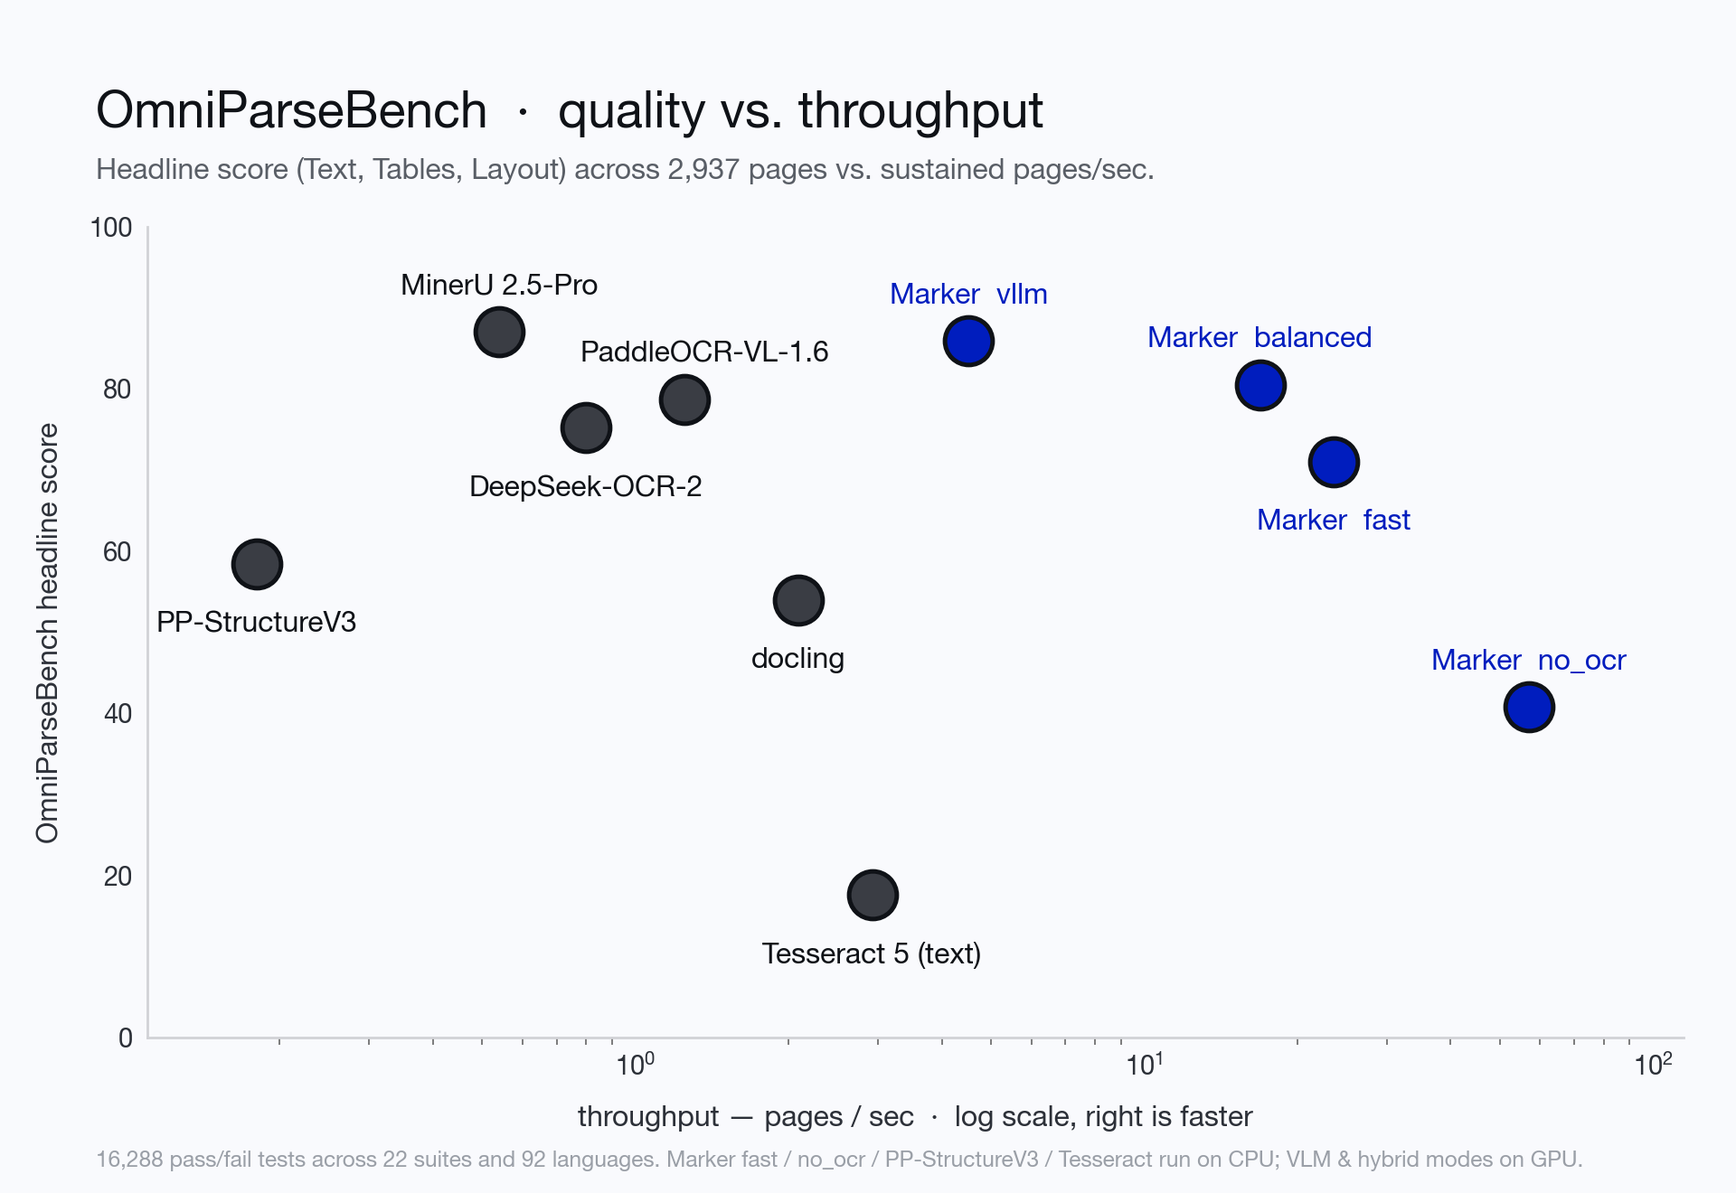
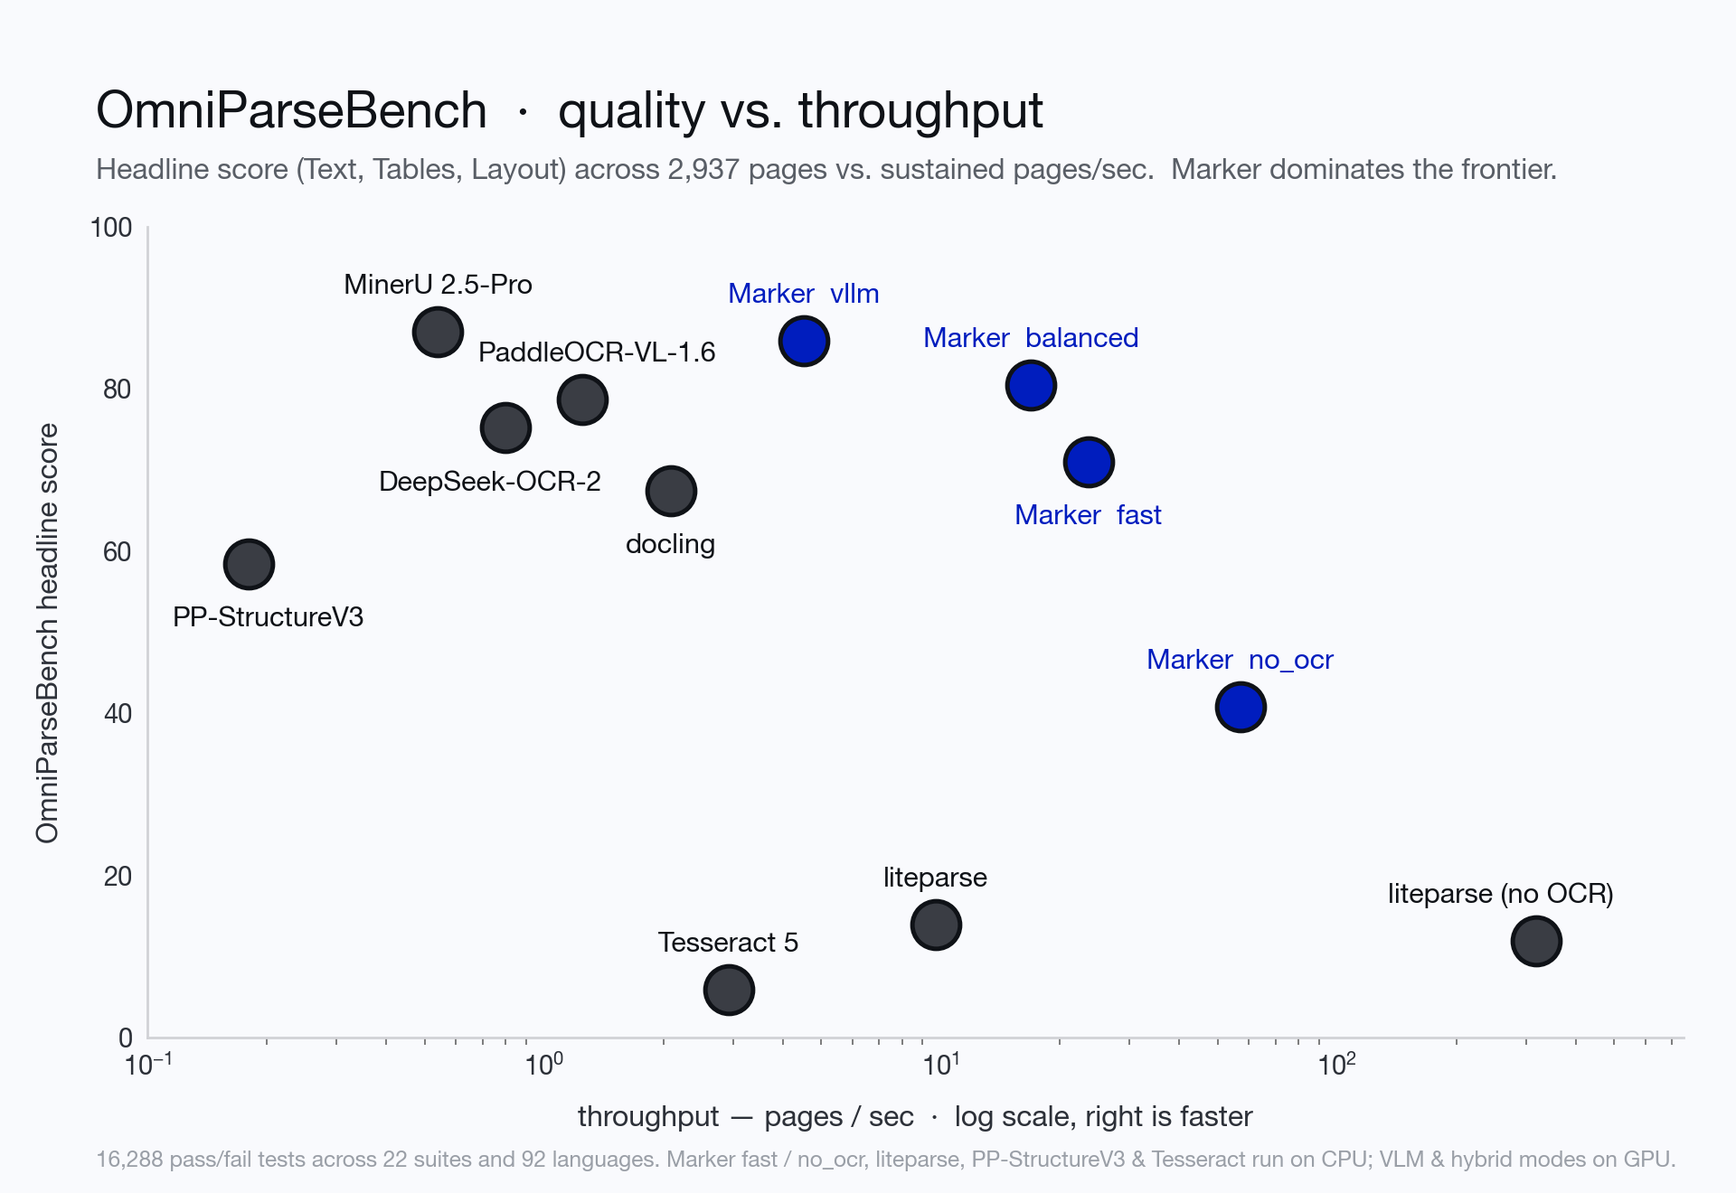
Add docling and liteparse OmniParseBench scores, charts, and positioning

diff --git a/benchmarks/plot_benchmarks.py b/benchmarks/plot_benchmarks.py
@@ -83,14 +83,16 @@ def plot_omniparsebench_scatter():
     # (label, throughput_pg_s, headline_score, is_marker, dx_pts, dy_pts, ha)
     points = [
         ("MinerU 2.5-Pro", 0.54, 87.1, False, 0, 18, "center"),
-        ("DeepSeek-OCR-2", 0.80, 75.2, False, 0, -24, "center"),
-        ("PaddleOCR-VL-1.6", 1.25, 78.7, False, 8, 18, "center"),
-        ("PP-StructureV3", 0.18, 58.4, False, 0, -24, "center"),
-        ("docling", 2.09, 54.0, False, 0, -24, "center"),
-        ("Tesseract 5 (text)", 2.92, 17.6, False, 0, -24, "center"),
+        ("DeepSeek-OCR-2", 0.80, 75.2, False, -6, -22, "center"),
+        ("PaddleOCR-VL-1.6", 1.25, 78.7, False, 6, 18, "center"),
+        ("PP-StructureV3", 0.18, 58.4, False, 8, -22, "center"),
+        ("docling", 2.09, 67.5, False, 0, -22, "center"),
+        ("liteparse", 9.74, 14.0, False, 0, 18, "center"),
+        ("liteparse (no OCR)", 318.0, 12.0, False, -14, 18, "center"),
+        ("Tesseract 5", 2.92, 5.9, False, 0, 18, "center"),
         ("Marker  vllm", 4.52, 85.9, True, 0, 18, "center"),
         ("Marker  balanced", 16.9, 80.5, True, 0, 18, "center"),
-        ("Marker  fast", 23.6, 71.0, True, 0, -24, "center"),
+        ("Marker  fast", 23.6, 71.0, True, 0, -22, "center"),
         ("Marker  no_ocr", 57.0, 40.8, True, 0, 18, "center"),
     ]
 
@@ -113,14 +115,14 @@ def plot_omniparsebench_scatter():
             textcoords="offset points",
             ha=ha,
             va="center",
-            fontsize=11.5,
+            fontsize=11.0,
             fontweight="medium" if is_marker else "normal",
             color=text_color,
             zorder=5,
         )
 
     ax.set_xscale("log")
-    ax.set_xlim(0.11, 115)
+    ax.set_xlim(0.10, 750)
     ax.set_ylim(0, 100)
     ax.set_yticks([0, 20, 40, 60, 80, 100])
     ax.tick_params(axis="both", which="major", labelsize=10.5, length=0, pad=6)
@@ -135,8 +137,8 @@ def plot_omniparsebench_scatter():
     _add_header_footer(
         fig,
         "OmniParseBench  ·  quality vs. throughput",
-        "Headline score (Text, Tables, Layout) across 2,937 pages vs. sustained pages/sec.",
-        "16,288 pass/fail tests across 22 suites and 92 languages. Marker fast / no_ocr / PP-StructureV3 / Tesseract run on CPU; VLM & hybrid modes on GPU.",
+        "Headline score (Text, Tables, Layout) across 2,937 pages vs. sustained pages/sec.  Marker dominates the frontier.",
+        "16,288 pass/fail tests across 22 suites and 92 languages. Marker fast / no_ocr, liteparse, PP-StructureV3 & Tesseract run on CPU; VLM & hybrid modes on GPU.",
     )
     fig.savefig(OUT_DIR / "omniparsebench.png", dpi=200)
     plt.close(fig)
@@ -156,13 +158,14 @@ def plot_omniparsebench_scores_bar():
         ("Marker\nvllm", 85.9, True),
         ("GLM-OCR", 81.5, False),
         ("Marker\nbalanced", 80.5, True),
-        ("Nemotron\n3.5", 80.0, False),
         ("Paddle\nVL 1.6", 78.7, False),
         ("DeepSeek\nOCR 2", 75.2, False),
         ("Marker\nfast", 71.0, True),
+        ("docling", 67.5, False),
         ("Hunyuan\nOCR 1.5", 64.6, False),
         ("PP-Struct\nV3", 58.4, False),
         ("Marker\nno_ocr", 40.8, True),
+        ("liteparse", 14.0, False),
     ]
 
     xs = np.arange(len(items))
@@ -231,6 +234,7 @@ def plot_omniparsebench_families():
         ("Paddle\nVL 1.6", 61.7, 83.7, 90.7, False),
         ("DeepSeek\nOCR 2", 64.2, 70.0, 91.4, False),
         ("Marker\nfast", 62.3, 59.6, 91.2, True),
+        ("docling", 44.4, 72.0, 85.9, False),
         ("PP-Struct\nV3", 55.6, 47.8, 71.7, False),
     ]
 
@@ -312,11 +316,12 @@ def plot_throughput_bar():
         ("Marker\nno_ocr", 57.0, True),
         ("Marker\nfast", 23.6, True),
         ("Marker\nbalanced", 16.9, True),
-        ("liteparse", 8.9, False),
+        ("liteparse", 9.7, False),
         ("Marker\nvllm", 4.52, True),
         ("Tesseract 5", 2.92, False),
         ("docling", 2.09, False),
-        ("MinerU", 0.54, False),
+        ("Paddle\nVL 1.6", 1.25, False),
+        ("MinerU\n2.5-Pro", 0.54, False),
         ("PP-Struct\nV3", 0.18, False),
     ]
 
@@ -521,7 +526,7 @@ def plot_olmocr_charts():
     fig.savefig(OUT_DIR / "olmocr_bench.png", dpi=200)
     plt.close(fig)
 
-    # 2. olmocr_digital.png (CPU-only comparison)
+    # 2. olmocr_digital.png (CPU-only comparison on OmniParseBench)
     fig = plt.figure(figsize=(9.6, 6.6), dpi=200)
     ax = fig.add_axes([0.085, 0.13, 0.885, 0.68])
     _style_axes(ax)
@@ -529,10 +534,12 @@ def plot_olmocr_charts():
     cpu_points = [
         ("Marker  fast", 23.6, 71.0, True, -10, 18, "center"),
         ("Indra OCR", 49.4, 69.5, False, 15, 18, "center"),
-        ("Marker  no_ocr", 57.0, 55.8, True, 0, -24, "center"),
+        ("docling (CPU)", 1.38, 67.5, False, 0, 18, "center"),
+        ("Marker  no_ocr", 57.0, 40.8, True, 0, 18, "center"),
         ("PP-StructureV3", 0.18, 58.4, False, 10, -24, "center"),
-        ("liteparse", 8.9, 27.3, False, 0, -24, "center"),
-        ("Tesseract 5", 2.92, 17.6, False, 0, -24, "center"),
+        ("liteparse", 9.74, 14.0, False, 0, 18, "center"),
+        ("liteparse (no OCR)", 318.0, 12.0, False, -16, 18, "center"),
+        ("Tesseract 5", 2.92, 5.9, False, 0, 18, "center"),
     ]
 
     for label, x, y, is_marker, dx, dy, ha in cpu_points:
@@ -561,7 +568,7 @@ def plot_olmocr_charts():
         )
 
     ax.set_xscale("log")
-    ax.set_xlim(0.09, 150)
+    ax.set_xlim(0.09, 750)
     ax.set_ylim(0, 100)
     ax.set_yticks([0, 20, 40, 60, 80, 100])
     ax.tick_params(axis="both", which="major", labelsize=10.5, length=0, pad=6)
@@ -571,13 +578,13 @@ def plot_olmocr_charts():
         fontsize=11.5,
         labelpad=10,
     )
-    ax.set_ylabel("Benchmark score", fontsize=11.5, labelpad=10)
+    ax.set_ylabel("OmniParseBench headline score", fontsize=11.5, labelpad=10)
 
     _add_header_footer(
         fig,
         "CPU-only document parsing  ·  quality vs. throughput",
-        "Score vs. sustained pages/sec on CPU with no GPU required.",
-        "Marker fast and Indra OCR use in-process ONNX layout, reading order, and OCR on CPU; Marker no_ocr uses the PDF text layer + Indra ONNX layout.",
+        "OmniParseBench headline score vs. sustained pages/sec on CPU with no GPU required.",
+        "Marker fast & Indra OCR run in-process ONNX layout, reading order, and OCR on CPU; liteparse & Tesseract extract text without layout or table structure.",
     )
     fig.savefig(OUT_DIR / "olmocr_digital.png", dpi=200)
     plt.close(fig)

diff --git a/README.md b/README.md
@@ -44,13 +44,28 @@ Get started with **about 5,000 free convert pages every month** (work email) —
 
 <img src="data/images/omniparsebench.png" width="800px"/>
 
-We measure Marker on [OmniParseBench](https://huggingface.co/datasets/datalab-to/omni_parse_bench) ([GitHub](https://github.com/datalab-to/omni_parse_bench)), a comprehensive document-parsing benchmark of **16,288 pass/fail unit tests across 2,937 pages** in 92 languages covering text & reading order (`8,499` tests), table cell structure (`5,386` tests), and block layout (`2,403` tests), as well as [olmOCR-bench](https://github.com/allenai/olmocr/tree/main/olmocr/bench).
+Marker is built around a simple premise: **you shouldn't have to choose between VLM-level accuracy and production throughput, or maintain separate tools for GPU and CPU.**
 
-Marker's four conversion modes span the entire quality–throughput frontier:
-- **`vllm`** (full-page Surya 2.5 VLM, GPU) scores **85.9** headline on OmniParseBench (**83.7** on olmOCR-bench) at **4.5 pg/s** — ahead of open VLMs 2–5× its size (GLM-OCR, LightOnOCR-3-4B, PaddleOCR-VL-1.6, DeepSeek-OCR-2) and within 1.2 points of MinerU 2.5-Pro at ~8× higher throughput.
-- **`balanced`** (hybrid `pdftext` + Indra ONNX layout + Surya 2.5 VLM on tables/math/CJK/scans, GPU) scores **80.5** headline (**85.6** on the olmOCR-bench suites) at **16.9 pg/s**.
-- **`fast`** (in-process Indra ONNX layout, reading order, and ONNX OCR on CPU, no VLM server) scores **71.0** headline at **23.6 pg/s** — beating HunyuanOCR-1.5 (1B VLM) and outscoring PaddleOCR PP-StructureV3 (`58.4`) by +12.6 points at >100× the speed on CPU.
-- **`no_ocr`** (PDF text layer + in-process Indra ONNX layout on CPU) runs at **57.0 pg/s** with zero OCR calls.
+On [OmniParseBench](https://huggingface.co/datasets/datalab-to/omni_parse_bench) ([GitHub](https://github.com/datalab-to/omni_parse_bench)) — **16,288 pass/fail unit tests across 2,937 pages** in 92 languages covering text & reading order (`8,499` tests), table cell structure (`5,386` tests), and block layout (`2,403` tests) — as well as [olmOCR-bench](https://github.com/allenai/olmocr/tree/main/olmocr/bench), Marker defines the Pareto frontier across every hardware tier:
+
+- **Faster and more accurate than open document pipelines (`MinerU`, `docling`, `PP-StructureV3`)**:
+  - **`Marker balanced`** (**80.5** OmniParseBench, **85.6** on the olmOCR-bench suites, **16.9 pg/s**) beats **`docling`** (`67.5` at `2.1 pg/s`) by **+13.0 points overall** (**+34.8 points on text & math**) at **8× the speed**, and runs **31× faster** than **`MinerU 2.5-Pro`** (`0.54 pg/s`).
+  - **`Marker vllm`** (**85.9** OmniParseBench, **83.7** olmOCR-bench, **4.5 pg/s**) delivers higher text accuracy (`83.8` vs `77.4`) and higher layout accuracy (`95.7` vs `91.7`) than **`MinerU 2.5-Pro`** at **8.3× the throughput** (`4.5` vs `0.54 pg/s`).
+- **Outperforms open VLMs 2–12× its size (`GLM-OCR`, `LightOnOCR-3-4B`, `PaddleOCR-VL-1.6`, `DeepSeek-OCR-2`, `olmOCR-2`)**:
+  - Full-page VLMs burn GPU compute on every single page — even clean born-digital PDFs. Marker's hybrid **`balanced`** mode keeps clean prose on CPU (`pdftext` + in-process [Indra ONNX](https://github.com/datalab-to/indra-ocr) layout) and only calls the GPU VLM on equations, complex tables, CJK/non-Latin scripts, and scans — outscoring **`PaddleOCR-VL-1.6`** (`78.7`) and **`DeepSeek-OCR-2`** (`75.2`, 3.4B) at **14–21× higher throughput**.
+  - When you want full VLM OCR on every page, **`Marker vllm`** (powered by the compact 0.69B [Surya 2.5](https://github.com/datalab-to/surya) VLM) scores **85.9**, beating 1B–8B open VLMs (`LightOnOCR-3-4B` `82.9`, `GLM-OCR` `81.5`, `PaddleOCR-VL-1.6` `78.7`, `DeepSeek-OCR-2` `75.2`, `HunyuanOCR-1.5` `64.6`, `olmOCR-2` `42.6`).
+- **Best-in-class CPU-only parsing (`fast` & `no_ocr`) — no GPU or server required**:
+  - **`Marker fast`** runs 100% in-process on CPU/MPS (~18 MB Indra ONNX weights) and scores **71.0** at **23.6 pg/s** — beating **`docling`** (`67.5`) at **11–17× the speed**, beating 1B GPU VLMs like **`HunyuanOCR-1.5`** (`64.6`), outscoring **`PaddleOCR PP-StructureV3`** (`58.4`) by **+12.6 points at >130× the speed**, and delivering **5× higher accuracy at 2.4× the speed** of **`liteparse`** (`14.0` at `9.7 pg/s`) and **12× higher accuracy at 8× the speed** of **`Tesseract 5`** (`5.9` at `2.9 pg/s`).
+  - **`Marker no_ocr`** runs at **57.0 pg/s** on CPU with zero OCR calls, combining `pdftext` with Indra ONNX layout and CPU table reconstruction to score **81–83%** on born-digital multi-column and document suites (**3.4× higher overall** than `liteparse --no-ocr` at `40.8` vs `12.0`).
+
+### Which mode should I use?
+
+| Mode | Hardware | Throughput | OmniParseBench | Best for |
+|---|---|---:|---:|---|
+| `--mode balanced` *(GPU default)* | GPU + CPU | **16.9 pg/s** | **80.5** *(85.6 olmOCR suites)* | Production mixed workloads (born-digital PDFs, tables, math, CJK, and scans) |
+| `--mode vllm` | GPU | **4.5 pg/s** | **85.9** *(83.7 olmOCR-bench)* | Maximum accuracy on degraded scans, dense equations, handwriting, & complex tables |
+| `--mode fast` *(CPU/MPS default)* | CPU / MPS only | **23.6 pg/s** | **71.0** *(71.6 born-digital)* | Laptops, CI, serverless/CPU containers, and fast local OCR with zero GPU dependencies |
+| `--mode no_ocr` | CPU only | **57.0 pg/s** | **40.8** *(82.7 digital docs)* | Bulk born-digital PDFs when you want layout, reading order, & tables at maximum speed |
 
 <img src="data/images/omniparsebench_scores_bar.png" width="800px"/>
 
@@ -481,33 +496,41 @@ Quality vs. throughput on OmniParseBench — up (higher score) and right (faster
 
 <img src="data/images/omniparsebench.png" width="800px"/>
 
-Representative public scores from the [OmniParseBench leaderboard](https://huggingface.co/datasets/datalab-to/omni_parse_bench) alongside Marker's four conversion modes:
+Representative scores from the [OmniParseBench leaderboard](https://huggingface.co/datasets/datalab-to/omni_parse_bench) and our benchmark harness alongside Marker's four conversion modes:
 
 | System | Type / Weights | Headline | Text | Tables | Layout | Throughput\* |
 |---|---|---:|---:|---:|---:|---:|
 | [Datalab API (accurate)](https://www.datalab.to/?utm_source=gh-marker) | Hosted API | 94.1 | 92.0 | 94.2 | 96.0 | — |
 | [Datalab API (balanced)](https://www.datalab.to/?utm_source=gh-marker) | Hosted API | 92.6 | 90.1 | 91.6 | 96.2 | — |
-| [Chandra OCR 2](https://github.com/datalab-to/chandra) | Open VLM (4.5B) | 90.1 | 87.4 | 87.4 | 95.4 | — |
+| Reducto | Hosted API | 90.8 | 85.4 | 91.2 | 95.8 | — |
+| LlamaParse | Hosted API | 90.4 | 88.2 | 92.6 | 90.4 | — |
+| [Chandra OCR 2](https://github.com/datalab-to/chandra) | Open VLM (4.5B, GPU) | 90.1 | 87.4 | 87.4 | 95.4 | — |
 | Mistral OCR | Hosted API | 89.5 | 82.8 | 91.9 | 93.8 | — |
-| dots.mocr | Open VLM (3.0B) | 87.9 | 82.5 | 88.6 | 92.5 | — |
+| dots.mocr | Open VLM (3.0B, GPU) | 87.9 | 82.5 | 88.6 | 92.5 | — |
 | MinerU 2.5-Pro | Open VLM (1.2B, GPU) | 87.1 | 77.4 | 92.1 | 91.7 | 0.54 pg/s |
 | **Marker — `vllm` ([Surya 2.5](https://github.com/datalab-to/surya))** | **Open VLM (0.69B, GPU)** | **85.9** | **83.8** | **78.3** | **95.7** | **4.5 pg/s** |
-| LightOnOCR-3-4B | Open VLM (4.5B) | 82.9 | 83.9 | 70.8 | 94.0 | — |
-| GLM-OCR | Open VLM (1.3B) | 81.5 | 71.0 | 84.2 | 89.3 | — |
-| **Marker — `balanced`** | **Open Hybrid (GPU)** | **80.5** | **79.2** | **70.1** | **92.2** | **16.9 pg/s** |
-| Nemotron 3.5 Parse | Open VLM (0.63B) | 80.0 | 72.4 | 77.3 | 90.2 | — |
+| Surya OCR 2 | Open VLM (0.67B, GPU) | 83.1 | 80.6 | 74.3 | 94.3 | 2.2 pg/s |
+| Azure Document Intelligence | Hosted API | 83.0 | 74.6 | 81.7 | 92.8 | — |
+| LightOnOCR-3-4B | Open VLM (4.5B, GPU) | 82.9 | 83.9 | 70.8 | 94.0 | — |
+| GLM-OCR | Open VLM (1.3B, GPU) | 81.5 | 71.0 | 84.2 | 89.3 | — |
+| **Marker — `balanced`** | **Open Hybrid (GPU + CPU)** | **80.5** | **79.2** | **70.1** | **92.2** | **16.9 pg/s** |
+| Nemotron 3.5 Parse | Open VLM (0.63B, GPU) | 80.0 | 72.4 | 77.3 | 90.2 | — |
 | PaddleOCR-VL-1.6 | Open VLM (0.96B, GPU) | 78.7 | 61.7 | 83.7 | 90.7 | ~1.2 pg/s |
 | DeepSeek-OCR-2 | Open VLM (3.4B, GPU) | 75.2 | 64.2 | 70.0 | 91.4 | ~0.8 pg/s |
-| **Marker — `fast`** | **Open ONNX (CPU)** | **71.0** | **62.3** | **59.6** | **91.2** | **23.6 pg/s** |
+| **Marker — `fast`** | **Open ONNX (CPU, no GPU)** | **71.0** | **62.3** | **59.6** | **91.2** | **23.6 pg/s** |
 | [Indra OCR](https://github.com/datalab-to/indra-ocr) (standalone) | Open ONNX (12M, CPU) | 69.5 | 60.3 | 58.1 | 90.1 | 49.4 pg/s |
-| HunyuanOCR-1.5 | Open VLM (1.0B) | 64.6 | 50.5 | 61.9 | 81.4 | — |
+| docling | Open Pipeline (GPU / CPU) | 67.5 | 44.4 | 72.0 | 85.9 | 2.1 pg/s |
+| HunyuanOCR-1.5 | Open VLM (1.0B, GPU) | 64.6 | 50.5 | 61.9 | 81.4 | — |
 | PaddleOCR PP-StructureV3 | Open Pipeline (CPU) | 58.4 | 55.6 | 47.8 | 71.7 | ≤ 0.18 pg/s |
 | **Marker — `no_ocr`** | **Open Text-layer + ONNX (CPU)** | **40.8** | **22.7** | **22.0** | **77.8** | **57.0 pg/s** |
-| olmOCR-2 | Open VLM (8.3B, no layout) | — | 71.3 | 56.6 | — | — |
-| Nanonets-OCR2-3B | Open VLM (3.8B, no layout) | — | 68.2 | 62.6 | — | — |
-| Tesseract 5 | Open OCR (CPU, no layout/tables) | — | 17.6 | 0.0 | — | 2.9 pg/s |
+| olmOCR-2 | Open VLM (8.3B, no layout) | 42.6\*\* | 71.3 | 56.6 | 0.0 | — |
+| Nanonets-OCR2-3B | Open VLM (3.8B, no layout) | 43.6\*\* | 68.2 | 62.6 | 0.0 | — |
+| liteparse | Open Parser (CPU, no layout/tables) | 14.0 | 42.0 | 0.0 | 0.0 | 9.7 pg/s |
+| liteparse (`--no-ocr`) | Open Text-layer (CPU, no layout/tables) | 12.0 | 36.1 | 0.0 | 0.0 | 318.0 pg/s |
+| Tesseract 5 | Open OCR (CPU, no layout/tables) | 5.9 | 17.6 | 0.0 | 0.0 | 2.9 pg/s |
 
-\* Throughput is sustained concurrent pages/sec on a single host (`Marker balanced` / `vllm` on one GPU with thin CPU workers sharing the Surya inference server; `Marker fast` / `no_ocr`, `Indra OCR`, `PP-StructureV3`, and `Tesseract 5` on CPU with no GPU).
+\* Throughput is sustained concurrent pages/sec on a single host (`Marker balanced` / `vllm`, `MinerU`, and `docling` on one GPU; `Marker fast` / `no_ocr`, `Indra OCR`, `PP-StructureV3`, `liteparse`, and `Tesseract 5` on CPU with no GPU).  
+\*\* Systems that emit only Markdown without block layout annotations or HTML tables score `0.0` on those test families.
 
 Ranked headline scores and concurrent throughput across systems:
 
@@ -517,35 +540,38 @@ Per-family breakdown (**Text**, **Tables**, **Layout**) across representative mo
 
 <img src="data/images/omniparsebench_families.png" width="800px"/>
 
-### Marker modes, per OmniParseBench suite
+### Marker modes vs. `docling`, per OmniParseBench suite
 
-| Suite | Tests | `balanced` (GPU) | `fast` (CPU ONNX) | `no_ocr` (CPU) |
-|---|---:|---:|---:|---:|
-| `olmo_arxiv_math` | 3,272 | **90.8** | 77.8 | 49.1 |
-| `olmo_table_tests` | 718 | **88.4** | 80.3 | 56.4 |
-| `olmo_multi_column` | 352 | **88.2** | 86.0 | 81.4 |
-| `olmo_old_scans_math` | 450 | **85.5** | 54.3 | 48.7 |
-| `olmo_long_tiny_text` | 237 | 78.4 | **82.8** | 58.6 |
-| `olmo_old_scans` | 395 | **70.5** | 52.3 | 42.1 |
-| `tables_derived` | 5,427 | **80.9** | 80.1 | 63.3 |
-| `synth_copies` | 1,881 | **85.3** | 75.4 | 46.1 |
-| `multiling_finepdfs` | 676 | 80.2 | **87.4** | 59.2 |
-| `realdoc_pages` | 445 | **77.1** | 76.6 | 20.2 |
-| `realdoc_pdfs` | 256 | **82.4** | 77.7 | 28.6 |
-| `rotation_skew` | 377 | **84.3** | 83.7 | 34.0 |
-| `tiny_plans` | 372 | **83.9** | 77.2 | 45.3 |
-| `handwriting_samples` | 324 | **66.1** | 49.9 | 50.0 |
-| `docparsing_images` | 299 | **86.3** | 77.5 | 27.4 |
-| `parsebench_docs` | 293 | 85.4 | **89.5** | 82.7 |
-| `forms_federal` | 127 | **74.1** | 58.6 | 16.3 |
-| `forms_filled` | 107 | 75.9 | **80.5** | 48.0 |
-| `forms_documentcloud` | 47 | 90.3 | 85.0 | **97.4** |
-| **OmniParseBench Headline** | **16,288** | **80.5** | **71.0** | **40.8** |
-| **olmOCR-bench suites (6-suite mean)** | **5,424** | **85.6** | **70.8** | **44.0** |
+| Suite | Tests | `balanced` (GPU) | `fast` (CPU ONNX) | `no_ocr` (CPU) | `docling` |
+|---|---:|---:|---:|---:|---:|
+| `olmo_arxiv_math` | 3,272 | **90.8** | 77.8 | 49.1 | 59.0 |
+| `olmo_table_tests` | 718 | **88.4** | 80.3 | 56.4 | 88.1 |
+| `olmo_multi_column` | 352 | **88.2** | 86.0 | 81.4 | 83.9 |
+| `olmo_old_scans_math` | 450 | **85.5** | 54.3 | 48.7 | 4.8 |
+| `olmo_long_tiny_text` | 237 | 78.4 | **82.8** | 58.6 | 61.6 |
+| `olmo_old_scans` | 395 | **70.5** | 52.3 | 42.1 | 31.3 |
+| `tables_derived` | 5,427 | **80.9** | 80.1 | 63.3 | **88.4** |
+| `synth_copies` | 1,881 | **85.3** | 75.4 | 46.1 | 73.1 |
+| `multiling_finepdfs` | 676 | 80.2 | **87.4** | 59.2 | 63.2 |
+| `realdoc_pages` | 445 | **77.1** | 76.6 | 20.2 | 71.6 |
+| `realdoc_pdfs` | 256 | **82.4** | 77.7 | 28.6 | 52.8 |
+| `rotation_skew` | 377 | **84.3** | 83.7 | 34.0 | 81.1 |
+| `tiny_plans` | 372 | 83.9 | 77.2 | 45.3 | **91.2** |
+| `handwriting_samples` | 324 | **66.1** | 49.9 | 50.0 | 50.0 |
+| `docparsing_images` | 299 | 86.3 | 77.5 | 27.4 | **87.0** |
+| `parsebench_docs` | 293 | 85.4 | **89.5** | 82.7 | 86.9 |
+| `forms_federal` | 127 | 74.1 | 58.6 | 16.3 | **75.0** |
+| `forms_filled` | 107 | 75.9 | 80.5 | 48.0 | **81.3** |
+| `forms_documentcloud` | 47 | 90.3 | 85.0 | **97.4** | 100.0 |
+| **OmniParseBench Headline** | **16,288** | **80.5** | **71.0** | **40.8** | **67.5** |
+| **olmOCR-bench suites (6-suite mean)** | **5,424** | **85.6** | **70.8** | **44.0** | **54.8** |
+| **Sustained Throughput** | — | **16.9 pg/s** | **23.6 pg/s** | **57.0 pg/s** | **2.1 pg/s** |
 
 ### CPU-only parsing
 
-If you have no GPU, Marker's `fast` and `no_ocr` modes run entirely in-process on CPU using Indra ONNX layout, reading order, and line/math OCR. Unlike plain text extractors (`liteparse`, `Tesseract`), they preserve multi-column reading order, section headers, and HTML table structure:
+If you have no GPU, Marker's `fast` (`23.6 pg/s`, `71.0` headline) and `no_ocr` (`57.0 pg/s`, `40.8` headline) modes run entirely in-process on CPU using Indra ONNX layout, reading order, and line/math OCR:
+- **`Marker fast` vs. `docling` & `PP-StructureV3` on CPU**: Scores **+3.5 points higher** than `docling` (`71.0` vs `67.5`) at **17× the CPU speed** (`23.6` vs `1.4 pg/s`), and **+12.6 points higher** than `PaddleOCR PP-StructureV3` (`58.4`) at **>130× the speed** (`23.6` vs `≤ 0.18 pg/s`).
+- **`Marker fast` & `no_ocr` vs. `liteparse` & `Tesseract 5`**: Plain text extractors (`liteparse` `14.0`, `liteparse --no-ocr` `12.0`, `Tesseract 5` `5.9`) lose all document structure — multi-column reading order gets scrambled, tables collapse into unstructured text (`0%` on table tests), and headings/footnotes disappear (`0%` on layout tests). Marker preserves multi-column reading order (`91.2%` layout in `fast`, `77.8%` in `no_ocr`) and reconstructs full HTML tables (`59.6%` in `fast`, `63.3%` on `tables_derived` in `no_ocr`).
 
 <img src="data/images/olmocr_digital.png" width="800px"/>
 
